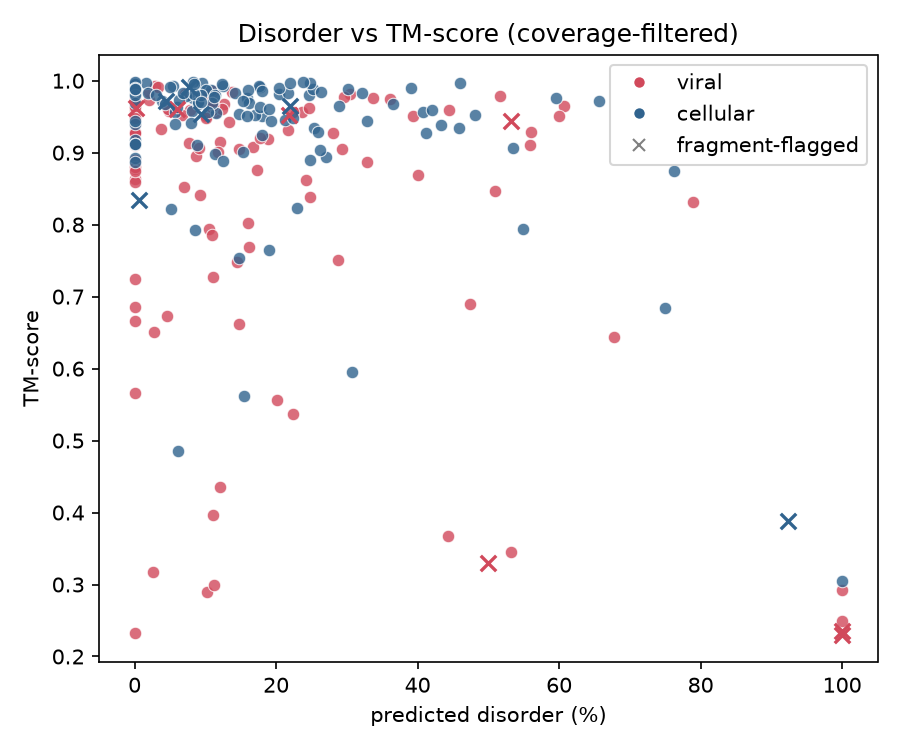
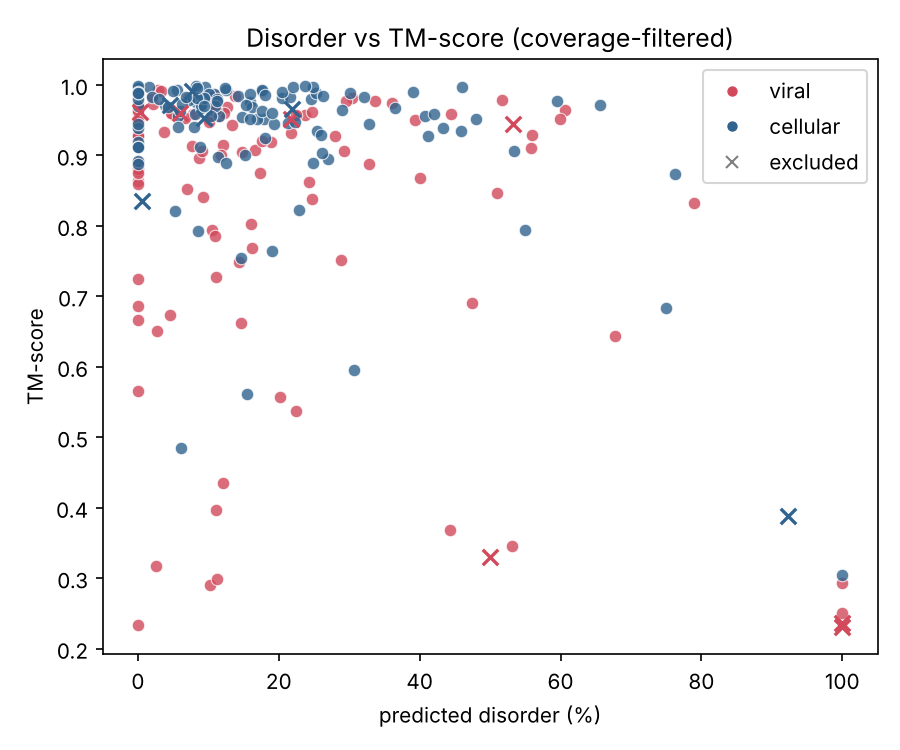
Correct the mislabelled exclusion count and figure legends
An independent run on the reporter's machine reproduced the committed
AlphaFold2 results exactly (stats.txt, regression.txt and compare_metrics.txt
byte-identical), and in checking it one line turned out to be wrong.

stats.txt read "dropped 13 ... as fragment mismatches". Since is_usable()
began excluding poorly resolved crystals as well, that set holds two kinds of
protein, and only 4 of the 13 are sequence mismatches; 11 are poorly resolved,
2 being both. The line contradicted the README's count of 4 and would have been
wrong if quoted. It now names each count. The figure legends and captions made
the same mistake, labelling every excluded protein "fragment-flagged"; they now
say "excluded", and the captions say what that covers.

The README described the x markers in plddt_vs_tm.png as sitting at high
confidence and low accuracy. That was the signature of the polyprotein
artifacts in the early dataset, which the selection fixes removed. In the
current figure the low-scoring excluded proteins are the two VP4 subunits at
pLDDT near 58: low confidence, the pattern of a genuine failure. The passage
now explains both patterns and which one the current data shows.

results_250/stats.txt is corrected from the actual counts, and the two figures
are redrawn from the existing metrics; no values change.

diff --git a/src/af_study.py b/src/af_study.py
@@ -1069,10 +1069,16 @@ def stage3_stats(rows):
     emit("=" * 60)
     _stats_block(kept, emit)
 
+    # Two separate reasons put a protein in this set, and one protein can have
+    # both, so the line names each count rather than calling them all fragment
+    # mismatches. It used to, and reported 13 "mismatches" where there were 4.
     dropped_viral = sum(1 for r in dropped if r["type"] == "viral")
     dropped_cellular = sum(1 for r in dropped if r["type"] == "cellular")
-    emit("dropped {0} ({1} viral, {2} cellular) as fragment mismatches".format(
-        len(dropped), dropped_viral, dropped_cellular))
+    n_fragment = sum(1 for r in dropped if r["fragment_flag"])
+    n_missing = sum(1 for r in dropped if r["missing_flag"])
+    emit("dropped {0} ({1} viral, {2} cellular): {3} as sequence mismatches, "
+         "{4} as poorly resolved, some for both".format(
+             len(dropped), dropped_viral, dropped_cellular, n_fragment, n_missing))
 
     out = os.path.join(CONFIG["results_dir"], "stats.txt")
     with open(out, "w") as handle:
@@ -1087,7 +1093,7 @@ def stage4_figures(rows):
     """Render three PNG figures from the coverage-filtered set.
 
     The boxplot uses only kept proteins. The scatter plots also show the
-    fragment-flagged proteins, drawn with an 'x' marker so the outliers stay
+    excluded proteins (sequence mismatch or poorly resolved), drawn with an 'x' marker so the outliers stay
     visible but are clearly distinguishable from the kept set.
     """
     print("\n=== Stage 4: figures ===")
@@ -1128,7 +1134,7 @@ def stage4_figures(rows):
         ]
         if flagged:
             handles.append(Line2D([], [], marker="x", linestyle="none", color="gray",
-                                  label="fragment-flagged"))
+                                  label="excluded"))
         ax.legend(handles=handles)
 
     # Figure 1: TM-score boxplot with jittered points (kept set only).

diff --git a/src/make_captions.py b/src/make_captions.py
@@ -82,7 +82,7 @@ def main():
 
     captions.append((
         "plddt_vs_tm.png",
-        "Per-protein mean pLDDT vs TM-score, colored by type with fragment-flagged "
+        "Per-protein mean pLDDT vs TM-score, colored by type with excluded "
         "proteins drawn as x markers (coverage-filtered set; the correlation is "
         "over the kept proteins). Higher AlphaFold confidence tracks higher "
         "accuracy: Spearman rho = {0}, p = {1} (n={2}).".format(
@@ -91,7 +91,7 @@ def main():
     captions.append((
         "disorder_vs_tm.png",
         "Predicted disorder (percent) vs TM-score, colored by type with "
-        "fragment-flagged proteins drawn as x markers (coverage-filtered set). "
+        "excluded proteins (sequence mismatch or poorly resolved) drawn as x markers. "
         "More disorder goes with lower accuracy: Spearman rho = {0}, p = {1} "
         "(n={2}).".format(dis_rho, dis_p, dis_n)))
 

diff --git a/src/compare_metrics.py b/src/compare_metrics.py
@@ -237,7 +237,7 @@ def write_report(stats, rows, out_txt, scope):
 def main():
     parser = argparse.ArgumentParser(description=__doc__.split("\n")[2])
     parser.add_argument("--all", action="store_true",
-                        help="include fragment-flagged proteins (default excludes them)")
+                        help="include excluded proteins too: sequence mismatches and poorly resolved crystals (default leaves them out)")
     parser.add_argument("--metrics", default=os.path.join(RESULTS, "metrics.csv"),
                         help="metrics CSV to read (default results/metrics.csv)")
     parser.add_argument("--out-dir", default=None,

diff --git a/README.md b/README.md
@@ -224,11 +224,19 @@ Five figures are generated. Each one answers a specific question.
 | `compare_metrics.png` | All three measures side by side, with a significance test on each |
 | `per_residue_disorder_hexbin.png` | Zoomed in to single amino acids: does local disorder predict local error? |
 
-`plddt_vs_tm.png` is the one to point at when explaining the coverage filter.
-Proteins flagged as sequence mismatches are drawn as x markers, and they sit in
-a telling place: high confidence but low accuracy. AlphaFold was sure and
-correct about a region that was never the one being compared. A genuine
-prediction failure looks the opposite, low confidence and low accuracy.
+`plddt_vs_tm.png` is the one to point at when explaining the filtering.
+Excluded proteins are drawn as x markers: either a sequence mismatch, where the
+model does not contain the crystallised protein, or a crystal too poorly
+resolved to trust.
+
+The figure is useful because the two kinds of low score look different. A
+mismatch shows high confidence with low accuracy: AlphaFold was sure, and
+correct, about a region that was never the one being compared. A genuine
+prediction failure shows low confidence with low accuracy. In the early
+dataset the low-scoring x markers sat in the first pattern, which is how the
+mismatch problem was found. After the selection fixes they sit in the second:
+the two remaining low-scoring mismatches are VP4 capsid subunits at pLDDT near
+58, which AlphaFold correctly flagged as uncertain.
 
 Planned but not yet built:
 
